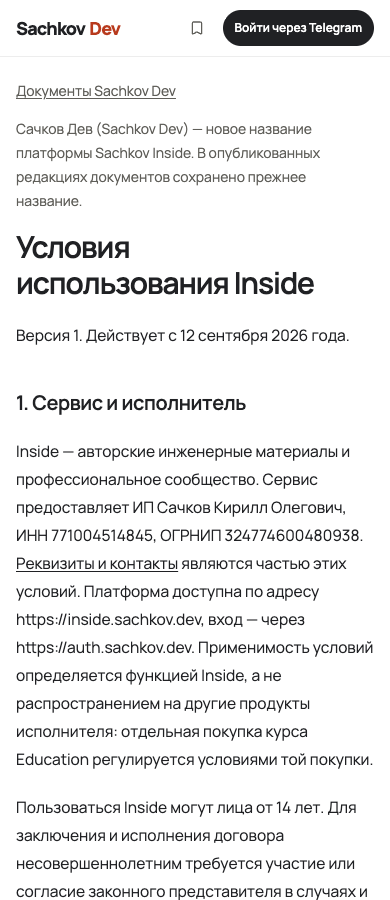
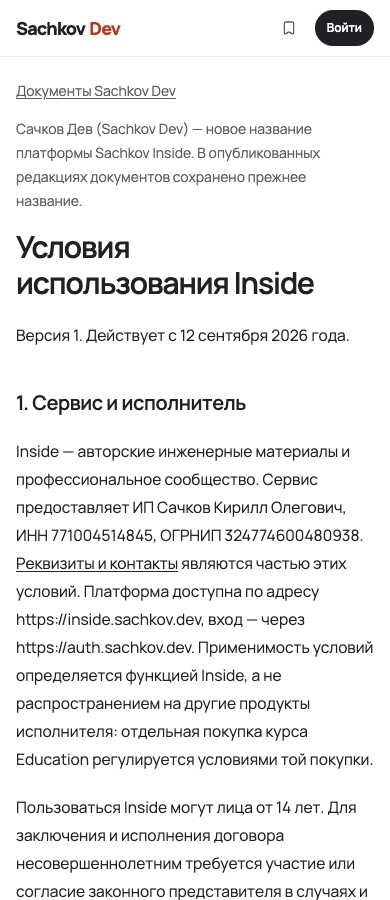
fix(web): сократить мобильную кнопку входа и выровнять справа

Changed region(s): [[0.5538, 0.0, 0.9231, 0.0622], [0.4923, 0.0, 0.5231, 0.0622]]

diff --git a/apps/web/src/_app/ui/public-shell.stories.tsx b/apps/web/src/_app/ui/public-shell.stories.tsx
@@ -190,6 +190,19 @@ export const MobileTopNavigation: Story = {
       name: "Войти через Telegram",
     });
     await expect(signIn).toBeVisible();
+    await expect(signIn.innerText).toBe("Войти");
+    const brand = within(header).getByRole("link", { name: "Главная" });
+    const buttonBounds = signIn.getBoundingClientRect();
+    const brandBounds = brand.getBoundingClientRect();
+    await expect(
+      Math.abs(
+        (buttonBounds.top + buttonBounds.bottom) / 2 -
+          (brandBounds.top + brandBounds.bottom) / 2,
+      ),
+    ).toBeLessThanOrEqual(1);
+    await expect(signIn.getBoundingClientRect().bottom).toBeLessThanOrEqual(
+      header.getBoundingClientRect().bottom,
+    );
     await expect(signIn.getBoundingClientRect().height).toBe(36);
     await expect(
       parseFloat(getComputedStyle(signIn, "::before").height),
@@ -225,9 +238,19 @@ export const MobileSignInEnlargedText: Story = {
       });
       await expect(button).toBeVisible();
       await expect(root.scrollWidth).toBeLessThanOrEqual(root.clientWidth);
-      await expect(button.getBoundingClientRect().right).toBeLessThanOrEqual(
-        root.clientWidth,
+      await expect(button.innerText).toBe("Войти");
+      const header = canvasElement.querySelector<HTMLElement>(
+        "[data-mobile-header]",
       );
+      if (header === null) throw new Error("Нет шапки телефона");
+      const container = header.firstElementChild;
+      if (container === null) throw new Error("Нет содержимого шапки");
+      const headerRight =
+        container.getBoundingClientRect().right -
+        parseFloat(getComputedStyle(container).paddingRight);
+      await expect(
+        Math.abs(button.getBoundingClientRect().right - headerRight),
+      ).toBeLessThanOrEqual(1);
     } finally {
       root.style.fontSize = fontSize;
     }

diff --git a/apps/web/src/widgets/auth-control/ui/auth-control.client.tsx b/apps/web/src/widgets/auth-control/ui/auth-control.client.tsx
@@ -23,7 +23,7 @@ const triggerClass =
 const menuItemClass =
   "flex min-h-11 w-full cursor-pointer items-center gap-3 rounded-xl px-3 text-sm font-medium no-underline outline-none hover:bg-muted focus:bg-muted data-[highlighted]:bg-muted";
 
-/** Desktop identity actions; state remains owned by the app adapter. */
+/** Header identity actions; state remains owned by the app adapter. */
 export function HeaderAuthControl({ state, avatar }: AuthControlStateProps) {
   if (state === "guest")
     return (
@@ -32,8 +32,14 @@ export function HeaderAuthControl({ state, avatar }: AuthControlStateProps) {
         method="post"
         className="flex min-h-11 items-center"
       >
-        <button type="submit" className={triggerClass}>
-          Войти через Telegram
+        <button
+          type="submit"
+          aria-label="Войти через Telegram"
+          className={triggerClass}
+        >
+          <span>
+            Войти<span className="hidden lg:inline"> через Telegram</span>
+          </span>
           <LogIn
             aria-hidden="true"
             className="hidden size-3.5 shrink-0 sm:block"

diff --git a/apps/web/src/widgets/auth-control/ui/auth-control.stories.tsx b/apps/web/src/widgets/auth-control/ui/auth-control.stories.tsx
@@ -15,7 +15,7 @@ const meta = {
     docs: {
       description: {
         component:
-          "Управление аккаунтом в desktop-шапке. На mobile используется страница Профиля. Фикстура задаёт только состояние; production использует существующий app adapter и POST-формы входа/выхода.",
+          "Управление аккаунтом в шапке. На телефоне кнопка подписана «Войти», на компьютере «Войти через Telegram». Фикстура задаёт только состояние; production использует существующий app adapter и POST-формы входа/выхода.",
       },
     },
   },

diff --git a/apps/web/src/widgets/application-shell/ui/application-shell.client.tsx b/apps/web/src/widgets/application-shell/ui/application-shell.client.tsx
@@ -262,7 +262,7 @@ function MobileTopNavigation({
           <span>Sachkov</span>
           <span className="text-action">Dev</span>
         </Link>
-        <nav aria-label="Мобильная навигация">
+        <nav aria-label="Мобильная навигация" className="ml-auto">
           <ul className="flex flex-wrap items-center gap-1">
             {sections.map((item) => {
               const Icon = iconByName[item.icon];

diff --git a/docs/evidence/telegram-direct-sign-in/README.md b/docs/evidence/telegram-direct-sign-in/README.md
@@ -11,7 +11,12 @@
 | Шапка сайта | [1440](header-1440.png) | [390](header-390.png) | [320](header-320.png) |
 | Ожидание подтверждения | [1440](waiting-1440.png) | [390](waiting-390.png) | [320](waiting-320.png) |
 
-Для всех шести снимков проверено отсутствие горизонтальной прокрутки. Storybook использует
+На телефоне видимая подпись кнопки в шапке сокращена до «Войти», на компьютере сохраняется
+«Войти через Telegram». Группа навигации при переносе остаётся справа. Дополнительно проверен
+[экран 320 px с текстом 200%](header-320-enlarged.png). Проверки Storybook контролируют подпись,
+одну строку при обычном размере текста и правое выравнивание при увеличенном.
+
+Для снимков проверено отсутствие горизонтальной прокрутки. Storybook использует
 production presentation и синтетические состояния; он не открывает Telegram и не подтверждает
 реальный вход. Проверка `test/browser-engines/telegram-sign-in.test.ts` исполняет настоящий скрипт
 ожидания с перехваченным вызовом ОС. Она проверяет однократную попытку открытия, запасную ссылку,
